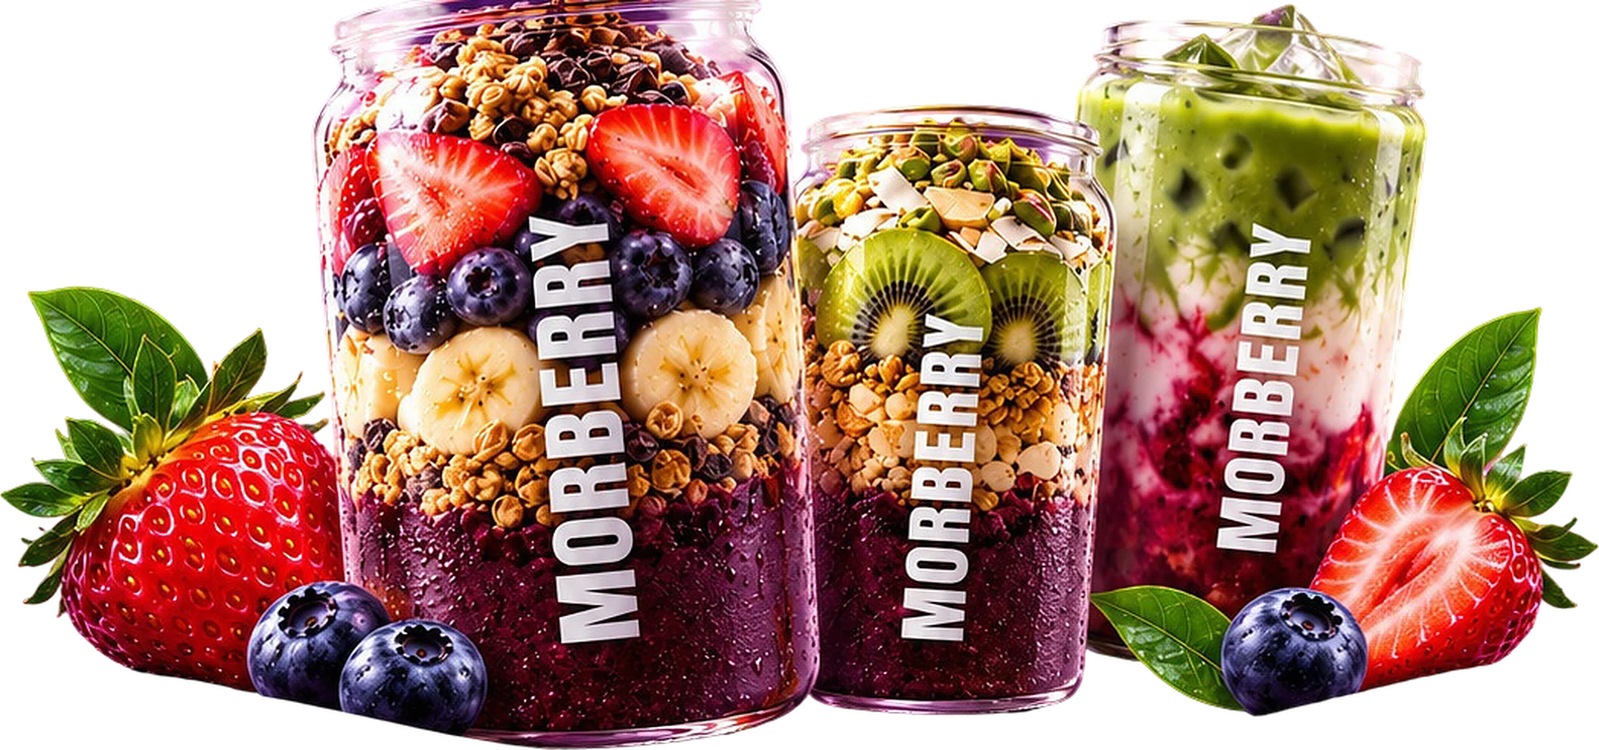
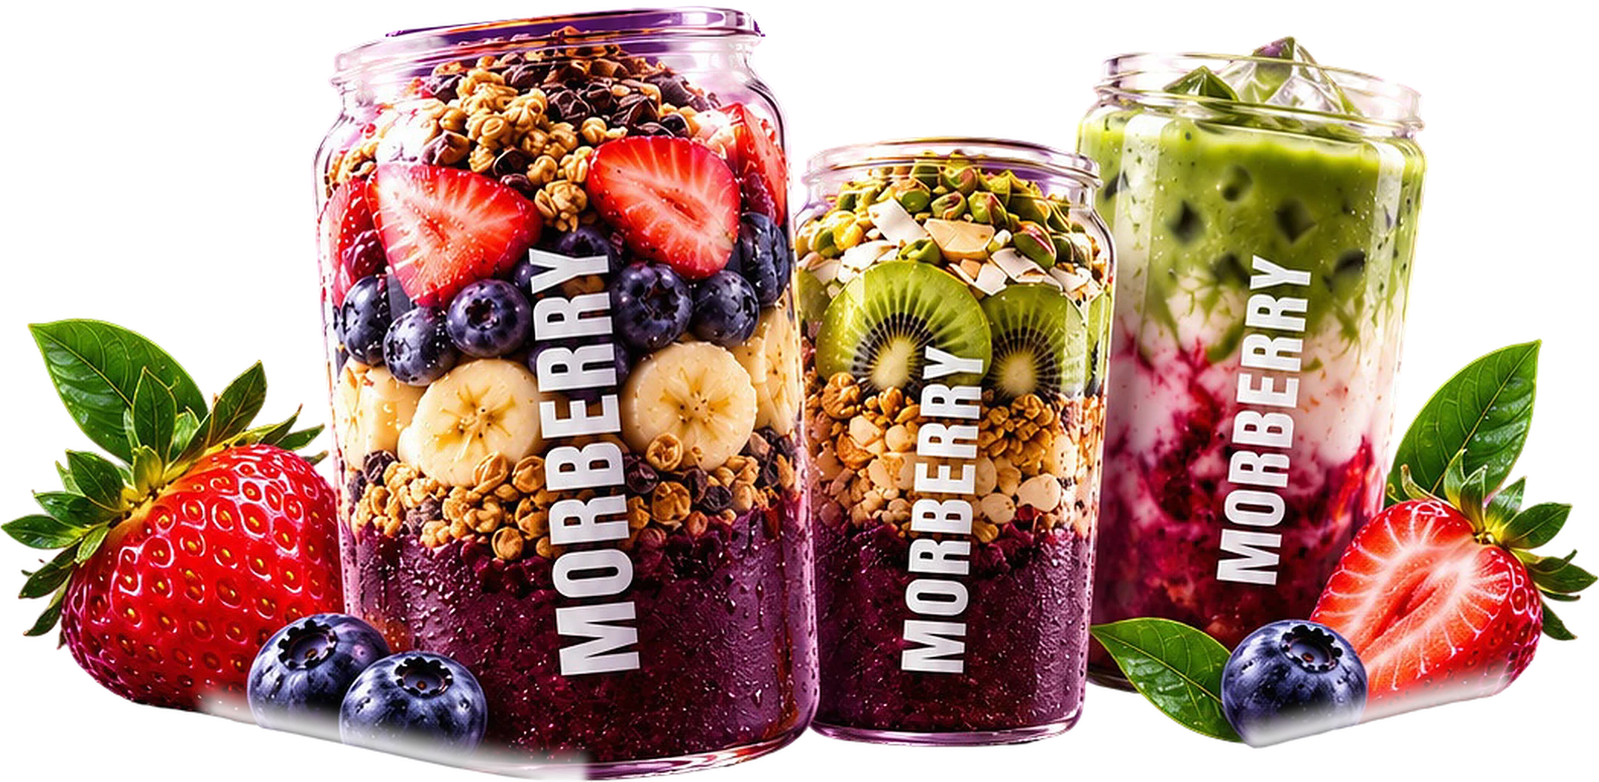
Kopfbild vollständig, Verbiege-Effekte entfernt
Glasrand oben aus dem Plakat ergänzt, Schnittkanten unten weich.
Kein WebGL, kein Kippen mehr bei Hover; ruhiges Anheben statt dessen.

diff --git a/index.html b/index.html
@@ -70,18 +70,17 @@ button{background:none;border:0;padding:0;cursor:pointer}
 .hero__title .brush>span{clip-path:inset(-20% 0 -20% 0)}
 .hero__sub{margin:clamp(6px,1.2vh,12px) 0 0;max-width:52ch;padding:0 var(--pad);font-size:clamp(15px,1.25vw,18px);color:var(--muted)}
 .hero__knoepfe{display:flex;flex-wrap:wrap;justify-content:center;gap:12px;margin-top:clamp(14px,2.4vh,24px);padding:0 var(--pad)}
-.hero__stage{position:relative;flex:1 1 auto;min-height:200px;width:100%;margin-top:clamp(26px,4.6vh,54px);display:flex;align-items:flex-end;justify-content:center;perspective:1400px}
-.glas3d{position:relative;flex:none;width:min(94vw,calc((100svh - 430px) * 2.132));aspect-ratio:1049/492;touch-action:pan-y}
-.glas3d__kipp{position:absolute;inset:0;transform-style:preserve-3d;will-change:transform}
-.glas3d__img,.glas3d__canvas{position:absolute;inset:0;width:100%;height:100%;object-fit:contain}
-.glas3d__canvas{opacity:0;transition:opacity .4s}
-.ist-3d .glas3d__canvas{opacity:1}
-.ist-3d .glas3d__img{opacity:0}
-.glas3d__glanz{position:absolute;inset:0;pointer-events:none;opacity:0;transition:opacity .5s;mix-blend-mode:overlay;
-  background:radial-gradient(circle at var(--gx,50%) var(--gy,35%),rgba(255,255,255,.75),rgba(255,255,255,0) 32%);
-  -webkit-mask:url(assets/glaeser-frei.webp) center/100% 100% no-repeat;mask:url(assets/glaeser-frei.webp) center/100% 100% no-repeat}
-.glas3d.ist-hover .glas3d__glanz{opacity:1}
-.glas3d__schatten{position:absolute;left:12%;right:12%;bottom:-3%;height:14%;z-index:-1;border-radius:50%;background:radial-gradient(closest-side,rgba(8,0,16,.8),transparent);filter:blur(8px);will-change:transform}
+.hero__stage{position:relative;flex:1 1 auto;min-height:200px;width:100%;margin-top:clamp(30px,5vh,60px);margin-bottom:clamp(24px,5vh,56px);display:flex;align-items:center;justify-content:center}
+.glas3d{position:relative;flex:none;width:min(94vw,calc((100svh - 430px) * 2.132));aspect-ratio:1049/513}
+.glas3d__kipp{position:absolute;inset:0}
+.glas3d__img{position:absolute;inset:0;width:100%;height:100%;object-fit:contain;filter:drop-shadow(0 28px 36px rgba(8,0,16,.45));transition:transform .7s var(--ease),filter .7s var(--ease)}
+.glas3d__schatten{position:absolute;left:12%;right:12%;bottom:-3%;height:14%;z-index:-1;border-radius:50%;background:radial-gradient(closest-side,rgba(8,0,16,.8),transparent);filter:blur(8px);transition:transform .7s var(--ease),opacity .7s var(--ease)}
+.glas3d::before{content:"";position:absolute;inset:-8% 4% 0;z-index:-1;border-radius:50%;background:radial-gradient(closest-side,rgba(226,166,238,.28),transparent 70%);opacity:0;transition:opacity .7s var(--ease);pointer-events:none}
+@media (hover:hover) and (pointer:fine){
+  .glas3d:hover .glas3d__img{transform:translateY(-10px) scale(1.02);filter:drop-shadow(0 40px 44px rgba(8,0,16,.55)) brightness(1.04)}
+  .glas3d:hover .glas3d__schatten{transform:scaleX(.92);opacity:.75}
+  .glas3d:hover::before{opacity:1}
+}
 
 /* ---------- Eröffnungs-Code ---------- */
 .code{position:relative;padding:clamp(90px,11vw,160px) 0 clamp(80px,10vw,140px);overflow-x:clip;background:radial-gradient(60% 50% at 50% 62%,rgba(226,166,238,.14),transparent 70%)}
@@ -91,12 +90,12 @@ button{background:none;border:0;padding:0;cursor:pointer}
 .h2 .brush{font:400 1.08em/1 var(--brush);text-transform:none;color:var(--lilac);display:inline-block;transform:rotate(-4deg)}
 .lead{max-width:46ch;margin:18px 0 0;color:var(--muted);font-size:clamp(15px,1.3vw,18px)}
 .code .lead{margin-inline:auto}
-.ticket-buehne{position:relative;width:min(100%,900px);margin-top:clamp(48px,6vw,80px);perspective:1200px}
+.ticket-buehne{position:relative;width:min(100%,900px);margin-top:clamp(48px,6vw,80px);}
 .deko{position:absolute;z-index:0;pointer-events:none;height:auto;filter:drop-shadow(0 24px 30px rgba(8,0,16,.55));will-change:transform}
 .deko--erdbeere{width:clamp(110px,15vw,200px);left:-5%;top:-24%;transform:rotate(-14deg)}
 .deko--heidel{width:clamp(90px,11vw,150px);right:-1%;bottom:-11%;transform:rotate(8deg)}
 .deko--heidel2{width:clamp(56px,6vw,84px);right:7%;top:-15%;transform:rotate(-20deg)}
-.ticket{position:relative;z-index:1;display:grid;grid-template-columns:minmax(0,1fr) minmax(250px,32%);border-radius:30px;transform-style:preserve-3d;will-change:transform;
+.ticket{position:relative;z-index:1;display:grid;grid-template-columns:minmax(0,1fr) minmax(250px,32%);border-radius:30px;transition:transform .6s var(--ease),filter .6s var(--ease);
   filter:drop-shadow(0 40px 50px rgba(8,0,16,.55));
   -webkit-mask:radial-gradient(circle at calc(68% + 0px) 0,transparent 20px,#000 21px) top/100% 51% no-repeat,radial-gradient(circle at calc(68% + 0px) 100%,transparent 20px,#000 21px) bottom/100% 51% no-repeat;
   mask:radial-gradient(circle at 68% 0,transparent 20px,#000 21px) top/100% 51% no-repeat,radial-gradient(circle at 68% 100%,transparent 20px,#000 21px) bottom/100% 51% no-repeat}
@@ -117,10 +116,7 @@ button{background:none;border:0;padding:0;cursor:pointer}
 .ticket__kopieren svg{width:16px;height:16px}
 .ticket__kopieren:hover{color:var(--cream);background:rgba(226,166,238,.12)}
 .ticket.ist-offen .ticket__kopieren{display:inline-flex}
-.ticket__glanz{position:absolute;inset:0;z-index:2;pointer-events:none;border-radius:30px;opacity:0;transition:opacity .4s;mix-blend-mode:soft-light;
-  background:radial-gradient(circle at var(--gx,50%) var(--gy,30%),rgba(255,255,255,.9),rgba(255,255,255,0) 45%),
-    linear-gradient(115deg,transparent 30%,rgba(255,255,255,.28) calc(var(--gx,50%) - 5%),transparent calc(var(--gx,50%) + 12%))}
-.ticket.ist-hover .ticket__glanz{opacity:1}
+@media (hover:hover) and (pointer:fine){.ticket:hover{transform:translateY(-6px);filter:drop-shadow(0 52px 56px rgba(8,0,16,.6))}}
 .code__hinweis{max-width:52ch;margin:clamp(40px,5vw,60px) auto 0;font-size:14px;color:var(--muted)}
 
 /* ---------- Bowl-Explorer ---------- */
@@ -130,15 +126,12 @@ button{background:none;border:0;padding:0;cursor:pointer}
 .explorer__namen{display:none}
 .slides{list-style:none;margin:0;padding:0}
 .slide{--h:min(400px,86vw);display:grid;gap:28px;padding:clamp(56px,8vw,96px) 0 0}
-.slide__fig{position:relative;justify-self:center;height:var(--h);width:calc(var(--h) * .54);perspective:900px}
+.slide__fig{position:relative;justify-self:center;height:var(--h);width:calc(var(--h) * .54)}
 .slide__fig::before{content:"";position:absolute;inset:-18% -60%;z-index:0;background:radial-gradient(closest-side,color-mix(in srgb,var(--farbe) 42%,transparent),transparent 70%);opacity:.85;pointer-events:none}
 .slide__wort{position:absolute;left:50%;top:50%;z-index:0;transform:translate(-50%,-50%);font:400 min(calc(var(--h) * .44),calc(var(--h) * 2.1 / var(--n,5)))/.8 var(--display);text-transform:uppercase;white-space:nowrap;color:transparent;-webkit-text-stroke:1.5px color-mix(in srgb,var(--farbe) 55%,transparent);opacity:.5;pointer-events:none;user-select:none}
-.slide__dreh{position:absolute;inset:0;z-index:1;transform-style:preserve-3d;will-change:transform}
+.slide__dreh{position:absolute;inset:0;z-index:1;transition:transform .6s var(--ease)}
+@media (hover:hover) and (pointer:fine){.slide__fig:hover .slide__dreh{transform:translateY(-8px)}}
 .slide__img{position:absolute;inset:0;height:100%;width:100%;object-fit:contain;object-position:bottom;filter:drop-shadow(0 30px 40px rgba(8,0,16,.55))}
-.slide__glanz{position:absolute;inset:0;pointer-events:none;opacity:0;transition:opacity .4s;mix-blend-mode:overlay;
-  background:radial-gradient(circle at var(--gx,50%) var(--gy,30%),rgba(255,255,255,.85),rgba(255,255,255,0) 40%);
-  -webkit-mask:var(--maske) center bottom/contain no-repeat;mask:var(--maske) center bottom/contain no-repeat}
-.slide__fig.ist-hover .slide__glanz{opacity:1}
 .slide__punkte{display:none}
 .slide__text{max-width:520px;justify-self:center;text-align:left;width:100%}
 .slide__name{margin:0;font:400 clamp(40px,5vw,72px)/.92 var(--display);text-transform:uppercase;color:var(--cream)}
@@ -222,8 +215,9 @@ button{background:none;border:0;padding:0;cursor:pointer}
   .glas3d{width:94vw}
 }
 @media (max-width:700px){
-  .hero{height:auto;min-height:0;max-height:none;padding-bottom:28px}
-  .hero__stage{flex:none;min-height:0}
+  .hero{height:auto;min-height:0;max-height:none;padding-bottom:12px}
+  .hero__stage{flex:none;min-height:0;margin-bottom:0}
+  .code{padding-top:64px}
   .glas3d{width:100vw}
   .zeile{grid-template-columns:1fr;gap:10px}
 }
@@ -253,9 +247,7 @@ button{background:none;border:0;padding:0;cursor:pointer}
   <div class="hero__stage">
     <div class="glas3d" data-glas3d>
       <div class="glas3d__kipp">
-        <img class="glas3d__img" src="assets/glaeser-frei.webp" width="2098" height="984" alt="Drei Morberry-Gläser: Açaí Bowl mit Erdbeeren und Banane, Bowl mit Kiwi und Pistazien, Iced Matcha mit Beeren" fetchpriority="high">
-        <canvas class="glas3d__canvas" aria-hidden="true"></canvas>
-        <span class="glas3d__glanz" aria-hidden="true"></span>
+        <img class="glas3d__img" src="assets/glaeser-frei.webp?v=2" width="2098" height="1026" alt="Drei Morberry-Gläser: Açaí Bowl mit Erdbeeren und Banane, Bowl mit Kiwi und Pistazien, Iced Matcha mit Beeren" fetchpriority="high">
       </div>
       <span class="glas3d__schatten" aria-hidden="true"></span>
     </div>
@@ -291,7 +283,6 @@ button{background:none;border:0;padding:0;cursor:pointer}
               <span>Nochmals kopieren</span>
             </button>
           </div>
-          <span class="ticket__glanz" aria-hidden="true"></span>
         </div>
       </div>
 
@@ -320,7 +311,6 @@ button{background:none;border:0;padding:0;cursor:pointer}
               <span class="slide__wort" aria-hidden="true" style="--n:5">Berry</span>
               <div class="slide__dreh">
                 <img class="slide__img" src="assets/bowl-berry-love.webp" width="441" height="822" loading="lazy" alt="Berry Love im Glas: Açaí, Granola, Banane, Heidelbeeren und Erdbeeren">
-                <span class="slide__glanz" aria-hidden="true"></span>
               </div>
               <ul class="slide__punkte" aria-hidden="true">
                 <li class="punkt" style="--y:16%"><i class="punkt__dot"></i><i class="punkt__linie"></i><span class="punkt__text"><b>Topping</b><span>Erdbeere, Erdbeersauce</span></span></li>
@@ -347,7 +337,6 @@ button{background:none;border:0;padding:0;cursor:pointer}
               <span class="slide__wort" aria-hidden="true" style="--n:9">Pistachio</span>
               <div class="slide__dreh">
                 <img class="slide__img" src="assets/bowl-pistachio-dream.webp" width="441" height="846" loading="lazy" alt="Pistachio Dream im Glas: Açaí, Granola, weisse Schokolade und Pistaziencreme">
-                <span class="slide__glanz" aria-hidden="true"></span>
               </div>
               <ul class="slide__punkte" aria-hidden="true">
                 <li class="punkt" style="--y:14%"><i class="punkt__dot"></i><i class="punkt__linie"></i><span class="punkt__text"><b>Topping</b><span>Pistaziencreme, Kiwi</span></span></li>
@@ -374,7 +363,6 @@ button{background:none;border:0;padding:0;cursor:pointer}
               <span class="slide__wort" aria-hidden="true" style="--n:5">Choco</span>
               <div class="slide__dreh">
                 <img class="slide__img" src="assets/bowl-choco-bomb.webp" width="423" height="831" loading="lazy" alt="Choco Bomb im Glas: Açaí, Schokostücke, Oreo und Brownie">
-                <span class="slide__glanz" aria-hidden="true"></span>
               </div>
               <ul class="slide__punkte" aria-hidden="true">
                 <li class="punkt" style="--y:16%"><i class="punkt__dot"></i><i class="punkt__linie"></i><span class="punkt__text"><b>Topping</b><span>Oreo, Brownie, Kinderriegel</span></span></li>
@@ -401,7 +389,6 @@ button{background:none;border:0;padding:0;cursor:pointer}
               <span class="slide__wort" aria-hidden="true" style="--n:8">Maracuja</span>
               <div class="slide__dreh">
                 <img class="slide__img" src="assets/bowl-maracuja-bliss.webp" width="399" height="813" loading="lazy" alt="Maracuja Bliss im Glas: Açaí, Früchte, Granola und Maracuja">
-                <span class="slide__glanz" aria-hidden="true"></span>
               </div>
               <ul class="slide__punkte" aria-hidden="true">
                 <li class="punkt" style="--y:14%"><i class="punkt__dot"></i><i class="punkt__linie"></i><span class="punkt__text"><b>Topping</b><span>Maracujasauce, Kokosstreifen</span></span></li>
@@ -469,7 +456,7 @@ button{background:none;border:0;padding:0;cursor:pointer}
   var feinZeiger = window.matchMedia('(hover:hover) and (pointer:fine)').matches;
 
   /* ---------- Gläserbild immer vollständig in den freien Platz einpassen ---------- */
-  var VERH = 1049 / 492;
+  var VERH = 1049 / 513;
   var buehne = document.querySelector('.hero__stage'), glas = document.querySelector('[data-glas3d]');
   function einpassen(){
     var w;
@@ -528,88 +515,7 @@ button{background:none;border:0;padding:0;cursor:pointer}
   if (!bewegt) return;
   gsap.registerPlugin(ScrollTrigger);
 
-  /* ---------- 3D-Gläser: Tiefenkarte in WebGL, Kippen per CSS ---------- */
-  var gl3 = (function(){
-    var canvas = glas.querySelector('canvas');
-    var gl = canvas.getContext('webgl', {premultipliedAlpha:true, alpha:true, antialias:false});
-    if (!gl) return null;
-    var vs = 'attribute vec2 p;varying vec2 v;void main(){v=vec2(p.x*.5+.5,.5-p.y*.5);gl_Position=vec4(p,0.,1.);}';
-    var fs = [
-      'precision mediump float;',
-      'uniform sampler2D uT,uD;uniform vec2 uM;uniform float uMo,uS;varying vec2 v;',
-      'float tf(vec2 u){return texture2D(uD,u).r;}',
-      'void main(){',
-      '  vec2 p=v;',
-      // Parallaxe nach Tiefe, mehrfach nachgeführt damit Kanten sauber bleiben
-      '  for(int i=0;i<4;i++){float d=tf(p);p=v-uM*(d-.5)*uS-vec2(0.,uMo*(d-.45)*.26);}',
-      // Morph beim Scrollen: flüssige Welle und Farbversatz
-      '  p.x+=sin(p.y*16.+uMo*8.)*.014*uMo;',
-      '  p.y+=sin(p.x*10.+uMo*6.)*.01*uMo;',
-      '  float sp=.008*uMo;',
-      '  vec4 c=texture2D(uT,p);',
-      '  vec4 r=texture2D(uT,p+vec2(sp,0.));vec4 b=texture2D(uT,p-vec2(sp,0.));',
-      '  c=vec4(mix(c.r,r.r,uMo),c.g,mix(c.b,b.b,uMo),max(c.a,max(r.a,b.a)*uMo));',
-      '  if(p.x<0.||p.x>1.||p.y<0.||p.y>1.)c=vec4(0.);',
-      '  gl_FragColor=c*(1.-uMo*.55);',
-      '}'].join('\n');
-    function shader(typ, src){ var s = gl.createShader(typ); gl.shaderSource(s, src); gl.compileShader(s); return s; }
-    var prog = gl.createProgram();
-    gl.attachShader(prog, shader(gl.VERTEX_SHADER, vs)); gl.attachShader(prog, shader(gl.FRAGMENT_SHADER, fs)); gl.linkProgram(prog);
-    if (!gl.getProgramParameter(prog, gl.LINK_STATUS)) return null;
-    gl.useProgram(prog);
-    var buf = gl.createBuffer(); gl.bindBuffer(gl.ARRAY_BUFFER, buf);
-    gl.bufferData(gl.ARRAY_BUFFER, new Float32Array([-1,-1,1,-1,-1,1,1,1]), gl.STATIC_DRAW);
-    var lp = gl.getAttribLocation(prog, 'p'); gl.enableVertexAttribArray(lp); gl.vertexAttribPointer(lp, 2, gl.FLOAT, false, 0, 0);
-    var u = {}; ['uT','uD','uM','uMo','uS'].forEach(function(n){ u[n] = gl.getUniformLocation(prog, n); });
-    function textur(img, einheit, vormultipliziert){
-      var t = gl.createTexture(); gl.activeTexture(gl.TEXTURE0 + einheit); gl.bindTexture(gl.TEXTURE_2D, t);
-      gl.pixelStorei(gl.UNPACK_PREMULTIPLY_ALPHA_WEBGL, vormultipliziert);
-      gl.texImage2D(gl.TEXTURE_2D, 0, gl.RGBA, gl.RGBA, gl.UNSIGNED_BYTE, img);
-      [gl.TEXTURE_WRAP_S, gl.TEXTURE_WRAP_T].forEach(function(k){ gl.texParameteri(gl.TEXTURE_2D, k, gl.CLAMP_TO_EDGE); });
-      gl.texParameteri(gl.TEXTURE_2D, gl.TEXTURE_MIN_FILTER, gl.LINEAR); gl.texParameteri(gl.TEXTURE_2D, gl.TEXTURE_MAG_FILTER, gl.LINEAR);
-    }
-    var zustand = {mx:0, my:0, morph:0}, bereit = false;
-    function groesse(){
-      var dpr = Math.min(devicePixelRatio || 1, 2);
-      canvas.width = Math.max(2, Math.round(canvas.clientWidth * dpr)); canvas.height = Math.max(2, Math.round(canvas.clientHeight * dpr));
-      gl.viewport(0, 0, canvas.width, canvas.height); zeichnen();
-    }
-    function zeichnen(){
-      if (!bereit) return;
-      gl.clearColor(0,0,0,0); gl.clear(gl.COLOR_BUFFER_BIT);
-      gl.uniform1i(u.uT, 0); gl.uniform1i(u.uD, 1);
-      gl.uniform2f(u.uM, zustand.mx, zustand.my); gl.uniform1f(u.uMo, zustand.morph); gl.uniform1f(u.uS, .056);
-      gl.drawArrays(gl.TRIANGLE_STRIP, 0, 4);
-    }
-    function laden(src){ return new Promise(function(ok, fehl){ var i = new Image(); i.onload = function(){ ok(i); }; i.onerror = fehl; i.src = src; }); }
-    Promise.all([laden('assets/glaeser-frei.webp'), laden('assets/glaeser-tiefe.png')]).then(function(b){
-      textur(b[0], 0, true); textur(b[1], 1, false); bereit = true; groesse(); glas.classList.add('ist-3d');
-    }).catch(function(){});
-    if (window.ResizeObserver) new ResizeObserver(groesse).observe(canvas);
-    return {zustand:zustand, zeichnen:zeichnen};
-  })();
-
-  var kipp = glas.querySelector('.glas3d__kipp'), schatten = glas.querySelector('.glas3d__schatten'), hero = document.querySelector('.hero');
-  var proxy = gl3 ? gl3.zustand : {mx:0, my:0, morph:0};
-  var neuZeichnen = function(){ if (gl3) gl3.zeichnen(); };
-  var zielMx = gsap.quickTo(proxy, 'mx', {duration:.9, ease:'power3', onUpdate:neuZeichnen});
-  var zielMy = gsap.quickTo(proxy, 'my', {duration:.9, ease:'power3', onUpdate:neuZeichnen});
-  var kippY = gsap.quickTo(kipp, 'rotationY', {duration:.9, ease:'power3'});
-  var kippX = gsap.quickTo(kipp, 'rotationX', {duration:.9, ease:'power3'});
-  var schattenX = gsap.quickTo(schatten, 'x', {duration:.9, ease:'power3'});
-
-  if (feinZeiger){
-    hero.addEventListener('pointermove', function(e){
-      var r = glas.getBoundingClientRect();
-      var nx = gsap.utils.clamp(-1, 1, (e.clientX - (r.left + r.width / 2)) / (r.width / 2));
-      var ny = gsap.utils.clamp(-1, 1, (e.clientY - (r.top + r.height / 2)) / (r.height / 1.2));
-      zielMx(nx); zielMy(ny); kippY(nx * 18); kippX(-ny * 11); schattenX(-nx * 40);
-      glas.style.setProperty('--gx', ((e.clientX - r.left) / r.width * 100) + '%');
-      glas.style.setProperty('--gy', ((e.clientY - r.top) / r.height * 100) + '%');
-      glas.classList.add('ist-hover');
-    });
-    hero.addEventListener('pointerleave', function(){ zielMx(0); zielMy(0); kippY(0); kippX(0); schattenX(0); glas.classList.remove('ist-hover'); });
-  }
+  var hero = document.querySelector('.hero');
 
   /* ---------- Auftritt ---------- */
   gsap.timeline({defaults:{ease:'expo.out'}})
@@ -619,10 +525,9 @@ button{background:none;border:0;padding:0;cursor:pointer}
     .from('.hero__sub, .hero__knoepfe', {y:18, opacity:0, duration:.8, stagger:.08}, '-=.45')
     .from(glas, {y:80, opacity:0, duration:1.4}, '-=1');
 
-  /* ---------- Morph beim Wegscrollen: Ebenen ziehen auseinander, Glas kippt nach hinten ---------- */
+  /* ---------- Beim Wegscrollen: Bild zieht sich ruhig zurück ---------- */
   gsap.timeline({scrollTrigger:{trigger:hero, start:'top top', end:'bottom top', scrub:.6}})
-    .to(proxy, {morph:1, ease:'power1.in', onUpdate:neuZeichnen}, 0)
-    .to(glas.parentNode, {rotationX:24, transformPerspective:1400, transformOrigin:'50% 100%', scale:.84, yPercent:-6, ease:'none'}, 0)
+    .to(glas.parentNode, {scale:.88, yPercent:-8, opacity:.25, filter:'blur(6px)', ease:'power1.in'}, 0)
     .to('.hero__kopf', {y:-80, opacity:0, filter:'blur(10px)', ease:'power1.in'}, 0);
 
   gsap.utils.toArray('[data-rein]').forEach(function(el){
@@ -631,51 +536,19 @@ button{background:none;border:0;padding:0;cursor:pointer}
   gsap.from('[data-zeile]', {y:30, opacity:0, duration:.9, ease:'expo.out', stagger:.1, scrollTrigger:{trigger:'.zeilen', start:'top 85%', once:true}});
   gsap.from('.fuss__mark span', {yPercent:100, duration:1.1, ease:'expo.out', stagger:.05, scrollTrigger:{trigger:'.fuss__mark', start:'top 95%', once:true}});
 
-  /* ---------- Ticket: 3D-Kippen, Glanz, Früchte mit Tiefe ---------- */
+  /* ---------- Ticket: Früchte schweben beim Scrollen mit ---------- */
   var tbuehne = document.querySelector('.ticket-buehne');
   var deko = gsap.utils.toArray('.deko');
   gsap.from(deko, {scale:.4, opacity:0, rotation:'-=40', duration:1.3, ease:'expo.out', stagger:.12, scrollTrigger:{trigger:tbuehne, start:'top 80%', once:true}});
   deko.forEach(function(d){
     gsap.to(d, {yPercent:-(+d.dataset.tiefe) * 1.4, ease:'none', scrollTrigger:{trigger:'.code', start:'top bottom', end:'bottom top', scrub:true}});
   });
-  if (feinZeiger){
-    var tY = gsap.quickTo(ticket, 'rotationY', {duration:.7, ease:'power3'}), tX = gsap.quickTo(ticket, 'rotationX', {duration:.7, ease:'power3'});
-    var dekoX = deko.map(function(d){ return gsap.quickTo(d, 'x', {duration:1, ease:'power3'}); });
-    var dekoY = deko.map(function(d){ return gsap.quickTo(d, 'y', {duration:1, ease:'power3'}); });
-    tbuehne.addEventListener('pointermove', function(e){
-      var r = ticket.getBoundingClientRect();
-      var nx = gsap.utils.clamp(-1, 1, (e.clientX - r.left) / r.width * 2 - 1), ny = gsap.utils.clamp(-1, 1, (e.clientY - r.top) / r.height * 2 - 1);
-      tY(nx * 12); tX(-ny * 10);
-      ticket.style.setProperty('--gx', ((nx + 1) * 50) + '%'); ticket.style.setProperty('--gy', ((ny + 1) * 50) + '%');
-      ticket.classList.add('ist-hover');
-      deko.forEach(function(d, i){ var t = +d.dataset.tiefe; dekoX[i](nx * t); dekoY[i](ny * t * .8); });
-    });
-    tbuehne.addEventListener('pointerleave', function(){
-      tY(0); tX(0); ticket.classList.remove('ist-hover');
-      deko.forEach(function(d, i){ dekoX[i](0); dekoY[i](0); });
-    });
-  }
 
   /* ---------- Bowl-Explorer ---------- */
   var explorer = document.querySelector('.explorer');
   var slides = gsap.utils.toArray('.slide');
   var knoepfe = gsap.utils.toArray('.explorer__namen button');
   var mm = gsap.matchMedia();
-
-  // Glas kippt mit der Maus, Glanz folgt (alle Breiten mit feinem Zeiger)
-  if (feinZeiger){
-    slides.forEach(function(s){
-      var fig = s.querySelector('.slide__fig'), dreh = s.querySelector('.slide__dreh');
-      var ry = gsap.quickTo(dreh, 'rotationY', {duration:.8, ease:'power3'}), rx = gsap.quickTo(dreh, 'rotationX', {duration:.8, ease:'power3'});
-      fig.addEventListener('pointermove', function(e){
-        var r = fig.getBoundingClientRect(), nx = (e.clientX - r.left) / r.width, ny = (e.clientY - r.top) / r.height;
-        ry((nx - .5) * 28); rx(-(ny - .5) * 14);
-        fig.style.setProperty('--gx', (nx * 100) + '%'); fig.style.setProperty('--gy', (ny * 100) + '%');
-        fig.classList.add('ist-hover');
-      });
-      fig.addEventListener('pointerleave', function(){ ry(0); rx(0); fig.classList.remove('ist-hover'); });
-    });
-  }
 
   // Desktop: Bereich bleibt stehen, Scrollen morpht von Bowl zu Bowl
   mm.add('(min-width:1000px) and (min-height:620px)', function(){
@@ -692,13 +565,13 @@ button{background:none;border:0;padding:0;cursor:pointer}
       neu.classList.add('ist-aktiv');
       var altImg = alt.querySelector('.slide__img'), neuImg = neu.querySelector('.slide__img');
       laeuft = gsap.timeline({onComplete:function(){ alt.classList.remove('ist-aktiv'); }})
-        // altes Glas zerfliesst: unscharf, gestaucht, Inhalt läuft nach unten aus
-        .to(altImg, {filter:'blur(16px) drop-shadow(0 30px 40px rgba(8,0,16,.55))', scaleX:.72, scaleY:1.18, yPercent:-10*dir, opacity:0, clipPath:dir > 0 ? 'inset(0% 0% 100% 0%)' : 'inset(100% 0% 0% 0%)', duration:.55, ease:'power2.in'}, 0)
+        // altes Glas wird unscharf und leert sich
+        .to(altImg, {filter:'blur(16px) drop-shadow(0 30px 40px rgba(8,0,16,.55))', yPercent:-6*dir, opacity:0, clipPath:dir > 0 ? 'inset(0% 0% 100% 0%)' : 'inset(100% 0% 0% 0%)', duration:.55, ease:'power2.in'}, 0)
         .to(alt.querySelectorAll('.punkt, .slide__text'), {opacity:0, duration:.3}, 0)
         .to(alt.querySelector('.slide__wort'), {opacity:0, letterSpacing:'.3em', duration:.5, ease:'power2.in'}, 0)
         // neues Glas füllt sich von unten und wird scharf
-        .fromTo(neuImg, {filter:'blur(18px) drop-shadow(0 30px 40px rgba(8,0,16,.55))', scaleX:1.3, scaleY:.74, yPercent:12*dir, opacity:0, clipPath:dir > 0 ? 'inset(100% 0% 0% 0%)' : 'inset(0% 0% 100% 0%)'},
-          {filter:'blur(0px) drop-shadow(0 30px 40px rgba(8,0,16,.55))', scaleX:1, scaleY:1, yPercent:0, opacity:1, clipPath:'inset(0% 0% 0% 0%)', duration:1.1, ease:'expo.out'}, .3)
+        .fromTo(neuImg, {filter:'blur(18px) drop-shadow(0 30px 40px rgba(8,0,16,.55))', yPercent:8*dir, opacity:0, clipPath:dir > 0 ? 'inset(100% 0% 0% 0%)' : 'inset(0% 0% 100% 0%)'},
+          {filter:'blur(0px) drop-shadow(0 30px 40px rgba(8,0,16,.55))', yPercent:0, opacity:1, clipPath:'inset(0% 0% 0% 0%)', duration:1.1, ease:'expo.out'}, .3)
         .fromTo(neu.querySelector('.slide__wort'), {opacity:0, letterSpacing:'.35em'}, {opacity:.5, letterSpacing:'0em', duration:1.2, ease:'expo.out'}, .3)
         .fromTo(neu.querySelector('.slide__text'), {y:24*dir, opacity:0, filter:'blur(6px)'}, {y:0, opacity:1, filter:'blur(0px)', duration:.8, ease:'expo.out'}, .45)
         .fromTo(neu.querySelectorAll('.punkt'), {opacity:0}, {opacity:1, duration:.01, stagger:.09}, .6)
@@ -731,7 +604,7 @@ button{background:none;border:0;padding:0;cursor:pointer}
   // Mobil und Tablet: Bowls untereinander, jede füllt sich beim Scrollen
   mm.add('(max-width:999px), (max-height:619px)', function(){
     slides.forEach(function(s){
-      gsap.fromTo(s.querySelector('.slide__img'), {clipPath:'inset(100% 0% 0% 0%)', filter:'blur(14px)', scaleY:.8}, {clipPath:'inset(0% 0% 0% 0%)', filter:'blur(0px)', scaleY:1, duration:1.2, ease:'expo.out', scrollTrigger:{trigger:s, start:'top 80%', once:true}});
+      gsap.fromTo(s.querySelector('.slide__img'), {clipPath:'inset(100% 0% 0% 0%)', filter:'blur(14px)'}, {clipPath:'inset(0% 0% 0% 0%)', filter:'blur(0px)', duration:1.2, ease:'expo.out', scrollTrigger:{trigger:s, start:'top 80%', once:true}});
       gsap.from(s.querySelectorAll('.slide__name, .slide__desc, .schicht, .groessen'), {y:24, opacity:0, duration:.8, ease:'expo.out', stagger:.07, scrollTrigger:{trigger:s, start:'top 70%', once:true}});
     });
   });
